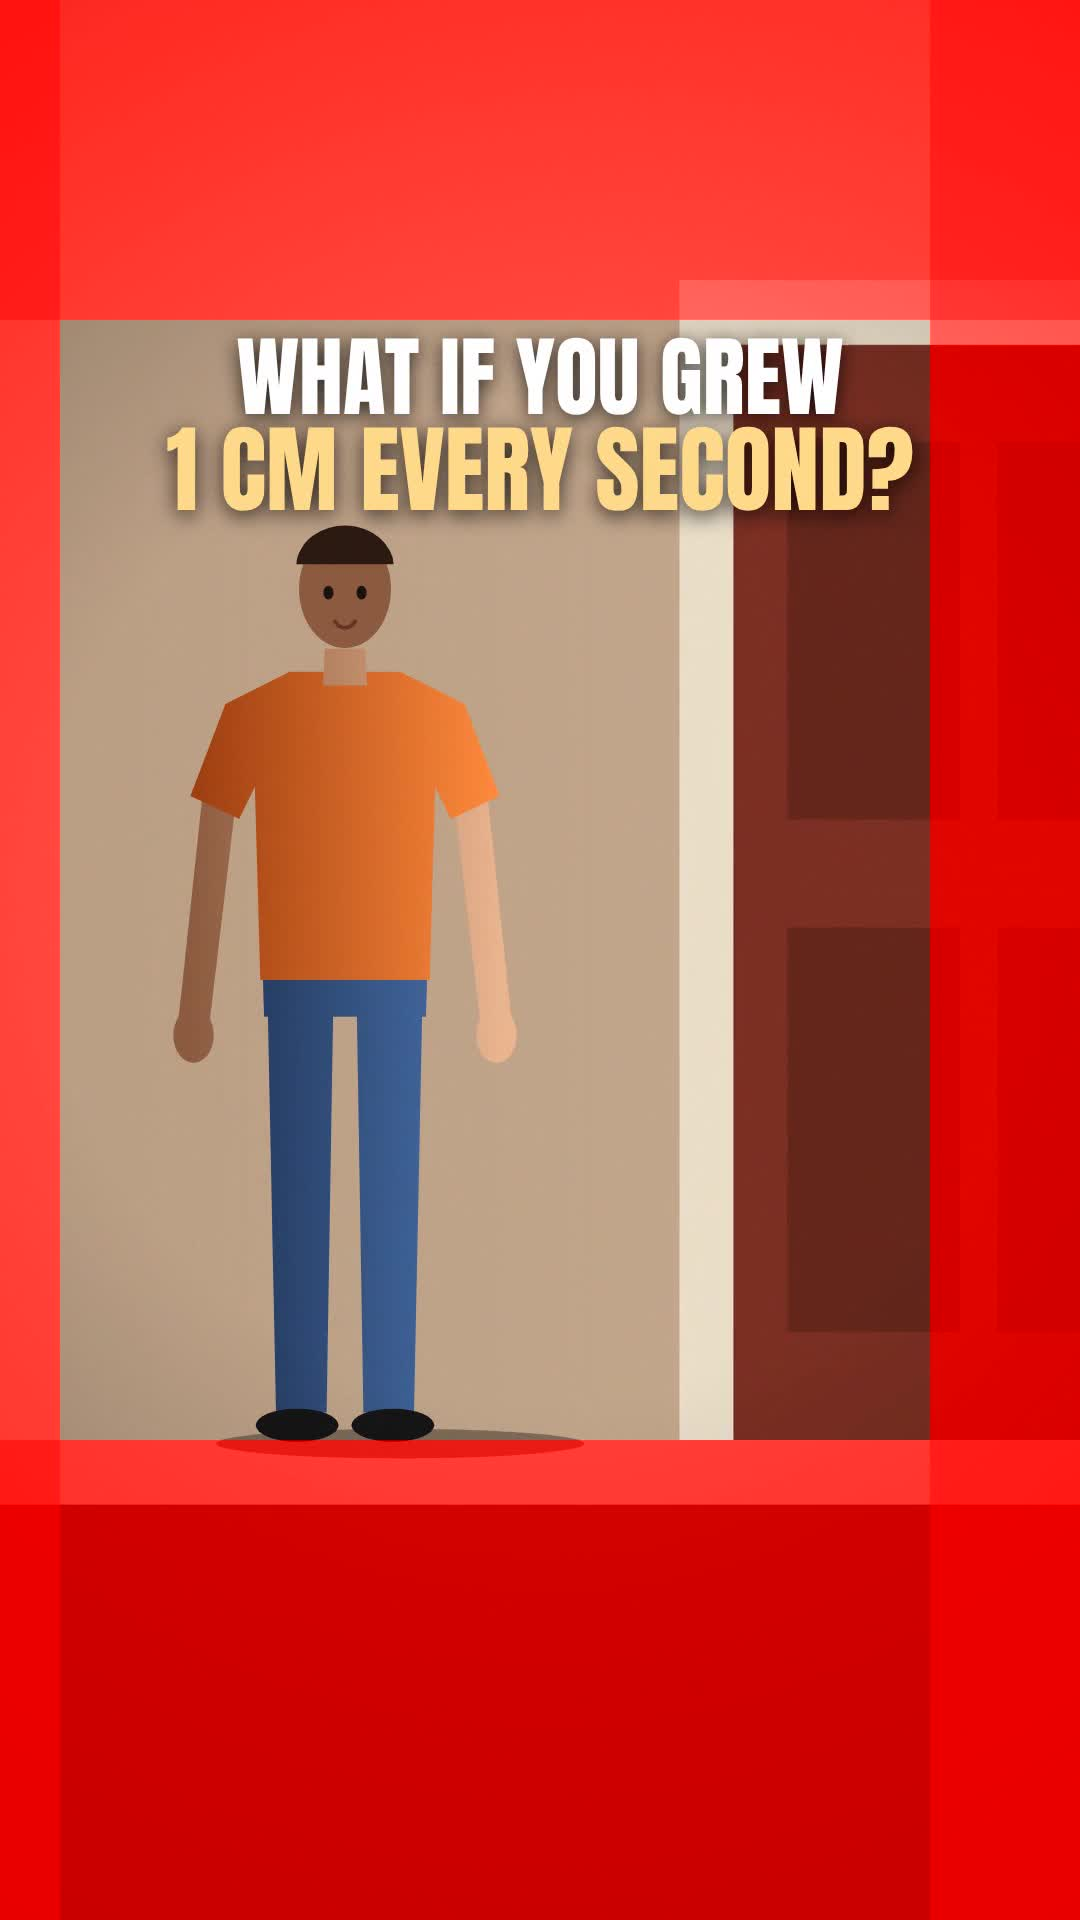
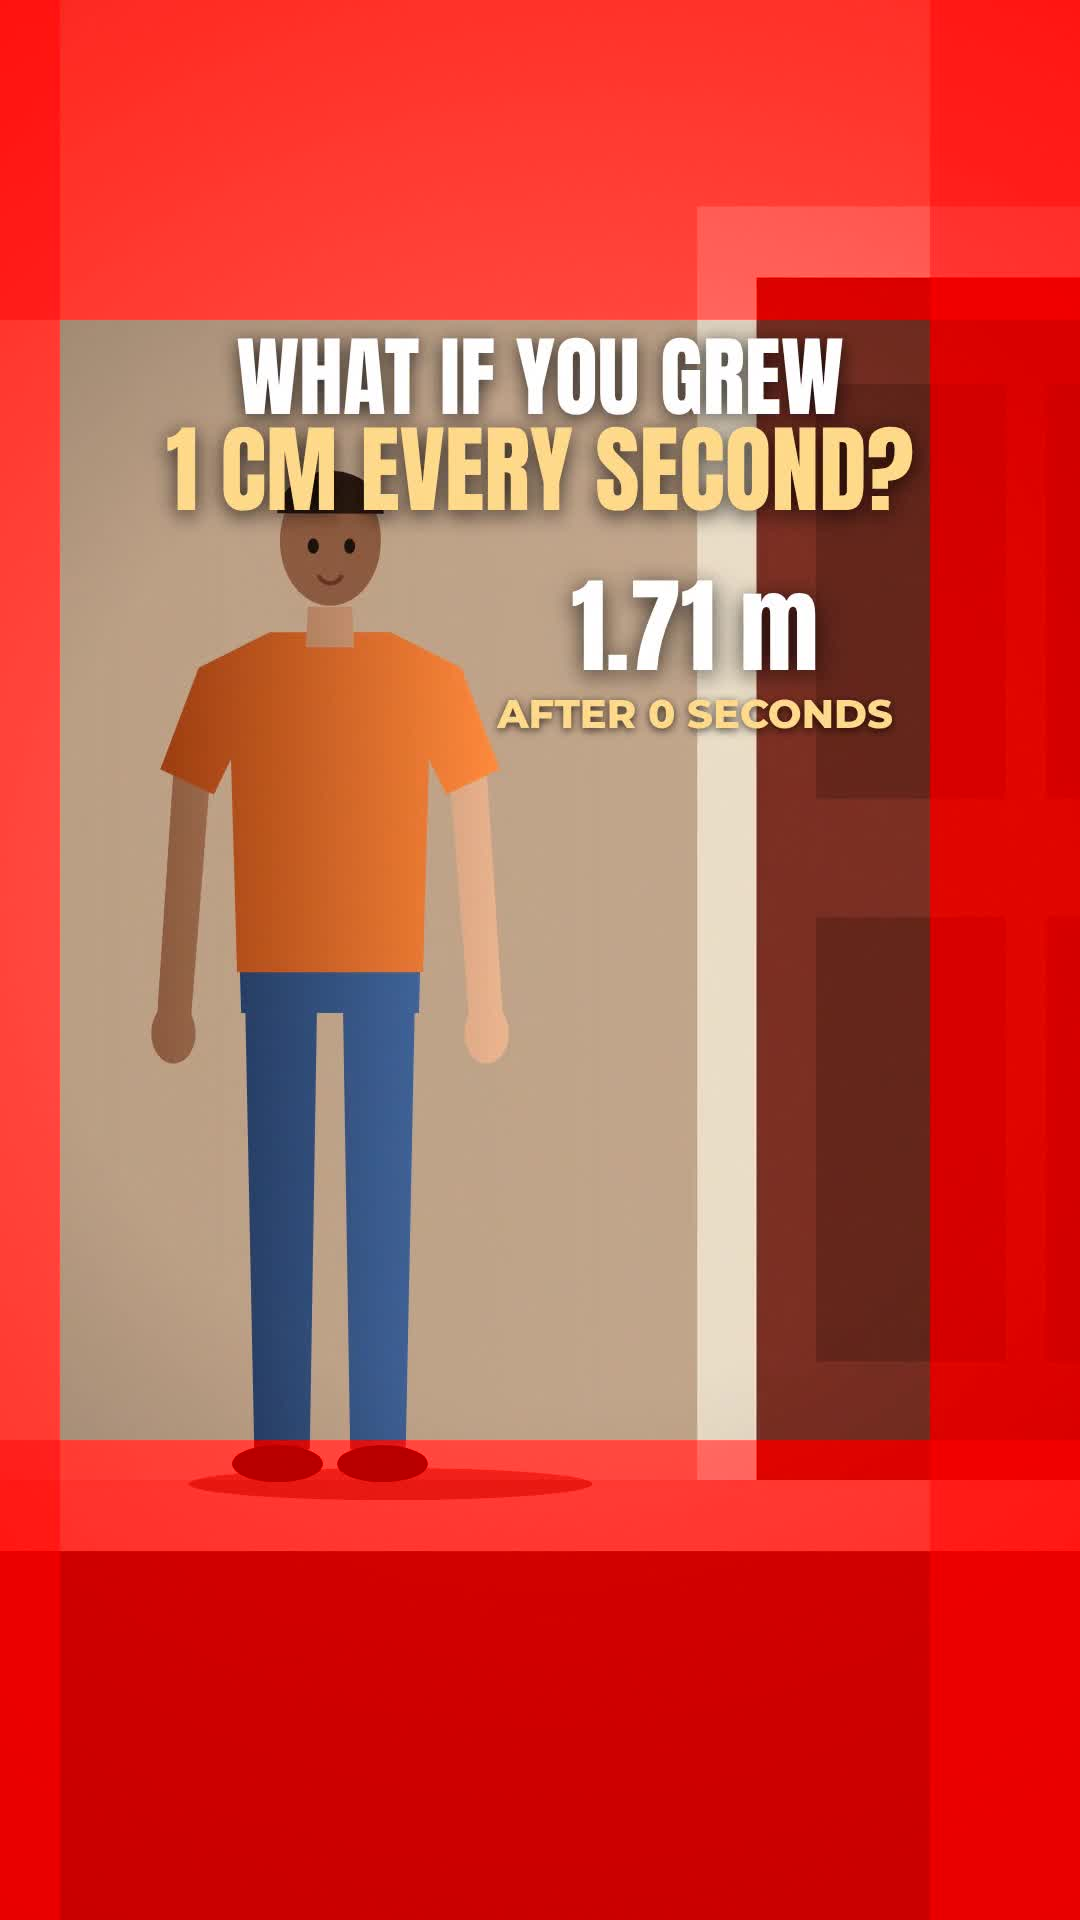
WIP grow-1cm v2 (reviewer round 1: voice/counter sync, tapered mountains, soft clouds, idle figure, counter from frame 0)

Changed region(s): [[0.0, 0.0938, 1.0, 0.8125], [0.4278, 0.4688, 0.4889, 0.5625], [0.7333, 0.5, 0.7639, 0.5312]]

diff --git a/tools/p_grow-1cm.html b/tools/p_grow-1cm.html
@@ -9,7 +9,7 @@
      for comparison (not their real places). Buildings, mountains and the person are drawn to scale with each other; the Earth photo is
      NASA AS17-148-22727 (public domain), drawn to the same scale. -->
 <script>
-const W=1080,H=1920,D=32.5,PX=345,CXT=690;
+const W=1080,H=1920,D=32.5,PX=330,CXT=695;
 const cl=(v,a=0,b=1)=>Math.max(a,Math.min(b,v)),ss=(a,b,v)=>{const t=cl((v-a)/(b-a));return t*t*(3-2*t)},lerp=(a,b,k)=>a+(b-a)*k;
 function rnd(seed){let s=seed>>>0;return()=>{s=(s*1664525+1013904223)>>>0;return s/4294967296}}
 const cv=document.getElementById('c'),x=cv.getContext('2d');
@@ -17,8 +17,8 @@ const EARTH=new Image();EARTH.src='g1-earth.jpg';
 Promise.all([document.fonts.load('80px Anton'),document.fonts.load('40px Mont'),new Promise(r=>{EARTH.onload=r})]).then(()=>{window.TEXREADY=true});
 const R=6378137; // equatorial radius, m (NSSDC)
 // ---------- growth clock: u = log10(T+1) through keyframes (monotone cubic) ----------
-const K=[[0,0],[2.8,1.0414],[5.0,1.7853],[7.8,3.5564],[11.5,4.9365],[13.3,5.15],[16.0,5.62],[17.4,5.9468],[19.4,6.35],[22.0,7.6042],[23.6,7.70],
- [25.2,8.6],[27.2,9.4022],[D,9.4022]];
+const K=[[0,0],[2.8,1.0414],[4.0,1.7853],[7.0,3.5564],[10.0,4.9365],[12.6,5.08],[16.0,5.55],[17.3,5.9468],[19.0,6.3],[20.3,7.6042],[23.4,7.70],
+ [26.4,9.4022],[D,9.4022]];
 const MS=(()=>{const n=K.length,d=[],m=[];for(let i=0;i<n-1;i++)d.push((K[i+1][1]-K[i][1])/(K[i+1][0]-K[i][0]));
  m[0]=d[0];m[n-1]=d[n-2];for(let i=1;i<n-1;i++)m[i]=(d[i-1]*d[i]<=0)?0:(d[i-1]+d[i])/2;
  for(let i=0;i<n-1;i++){if(d[i]==0){m[i]=m[i+1]=0;continue}const a=m[i]/d[i],b=m[i+1]/d[i],s=a*a+b*b;if(s>9){const tt=3/Math.sqrt(s);m[i]=tt*a*d[i];m[i+1]=tt*b*d[i]}}return m})();
@@ -26,7 +26,7 @@ function U(t){t=cl(t,0,D);let i=0;while(i<K.length-2&&t>K[i+1][0])i++;const [t0,
  const h00=2*s*s*s-3*s*s+1,h10=s*s*s-2*s*s+s,h01=-2*s*s*s+3*s*s,h11=s*s*s-s*s;return h00*z0+h10*h*MS[i]+h01*z1+h11*h*MS[i+1]}
 const TS=t=>Math.pow(10,U(t))-1, HT=T=>1.70+0.01*T;
 // ---------- framing: person height in px and feet y (moves up at the end so the Earth ball sits above the bottom zone) ----------
-function frame(t){const k=ss(23.6,27.2,t);return {hp:lerp(920,700,k),fy:lerp(1440,1062,k)}}
+function frame(t){const k=ss(23.4,26.4,t);return {hp:lerp(1010,700,k),fy:lerp(1480,1062,k)}}
 // ---------- precomputed scenery (metres; x = metres to the right of the feet, y up) ----------
 const r0=rnd(7);
 const STARS=[];for(let i=0;i<900;i++)STARS.push([r0()*W,r0()*H,Math.pow(r0(),4)*2.4+.3,r0()*6.28,r0()]);
@@ -37,7 +37,7 @@ const TREES=[];{const r=rnd(5);for(const x0 of [-2.6,-5.2,7.4,-12,13]){TREES.pus
 function ridge(seed,x0,x1,peakX,peakH,base,rough){const r=rnd(seed),P=[];const n=160;for(let i=0;i<=n;i++){const xx=lerp(x0,x1,i/n);
  const d=Math.abs(xx-peakX)/(x1-x0);let y=base+(peakH-base)*Math.pow(Math.max(0,1-d*2.3),1.35);P.push([xx,y])}
  for(let o=0;o<5;o++){const amp=rough*Math.pow(.55,o),f=4+o*7,ph=r()*6.28;for(const p of P){p[1]+=amp*Math.sin(p[0]/(x1-x0)*f*6.28+ph)*(1-Math.min(1,Math.abs(p[0]-peakX)/((x1-x0)*.06+1)*.0))}}
- for(const p of P)if(Math.abs(p[0]-peakX)<1)p[1]=peakH;return P}
+ for(const p of P){if(Math.abs(p[0]-peakX)<1)p[1]=peakH;const L=(x1-x0)*.18;p[1]*=ss(x0,x0+L,p[0])*ss(x1,x1-L,p[0])}return P}
 const EVR=ridge(11,800,13000,4300,8849,300,380); for(const p of EVR){if(Math.abs(p[0]-4300)>100)p[1]=Math.min(p[1],8849-Math.abs(p[0]-4300)*.42)}
 const EVR2=ridge(12,-14000,30000,9000,7000,200,500);
 const CLOUD=[];{const r=rnd(44);for(let i=0;i<150;i++){const xx=(r()-.35)*120000,y=1400+r()*1500,w=600+r()*2600;CLOUD.push({x:xx,y,w,h:w*(.28+r()*.2),a:.5+r()*.4})}}
@@ -52,7 +52,8 @@ function fmtT(T){const pl=(n,w)=>n+' '+w+(n==1?'':'S');
 // ---------- person (normalised: height 1, feet at 0, y up) ----------
 function person(g,X,Y,hp,t,space){
  const S=hp;const P=(a,b)=>[X+a*S,Y-b*S];g.save();
- const sway=Math.sin(t*1.3)*.004, look=ss(6,12,t)*.012;
+ const sway=Math.sin(t*1.3)*.006, look=ss(3,6,t)*.012+.006*Math.sin(t*.7), br=1+.006*Math.sin(t*2.2);
+ const bl=((t%3.1)<.12||(t%7.3)>7.15)?.15:1; g.translate(X,Y);g.scale(1,br);g.translate(-X,-Y);
  function poly(pts,fill){g.beginPath();pts.forEach((p,i)=>{const q=P(p[0],p[1]);i?g.lineTo(q[0],q[1]):g.moveTo(q[0],q[1])});g.closePath();g.fillStyle=fill;g.fill()}
  function lg(c0,c1){const gr=g.createLinearGradient(X-.17*S,0,X+.17*S,0);gr.addColorStop(0,c0);gr.addColorStop(1,c1);return gr}
  const jeans=lg('#1b2d4d','#4a74b0'),shirt=lg('#9c3d10','#ff8a3c'),skin=lg('#8c5a3e','#e9b48e'),shoe='#151515';
@@ -74,7 +75,7 @@ function person(g,X,Y,hp,t,space){
  g.fillStyle=skin;g.beginPath();g.ellipse(0,0,.05*S,.064*S,0,0,6.283);g.fill();
  g.fillStyle='#2a1a12';g.beginPath();g.ellipse(0,-.024*S,.053*S,.045*S,0,Math.PI*1.02,Math.PI*1.98);g.fill();
  g.beginPath();g.ellipse(0,-.03*S,.052*S,.03*S,0,Math.PI,0);g.fill();
- g.fillStyle='#1a120d';const ey=.004*S+look*S*.6;g.beginPath();g.ellipse(-.018*S,ey,.0055*S,.0075*S,0,0,6.283);g.fill();g.beginPath();g.ellipse(.018*S,ey,.0055*S,.0075*S,0,0,6.283);g.fill();
+ g.fillStyle='#1a120d';const ey=.004*S+look*S*.6,ex=look*S*.5;g.beginPath();g.ellipse(-.018*S+ex,ey,.0055*S,.0075*S*bl,0,0,6.283);g.fill();g.beginPath();g.ellipse(.018*S+ex,ey,.0055*S,.0075*S*bl,0,0,6.283);g.fill();
  g.strokeStyle='rgba(90,40,30,.8)';g.lineWidth=.004*S;g.beginPath();g.arc(0,.03*S,.012*S,.3,2.84);g.stroke();
  g.restore();
  // rim light from the right (sun)
@@ -124,7 +125,7 @@ function draw(t){
   x.fillStyle=sh;x.fillRect(0,0,W,H);
   x.restore();
   // ISS orbit ring (~400 km)
-  const io=ss(18.8,19.8,t)*(1-ss(23.6,24.6,t));
+  const io=ss(19.4,20.3,t)*(1-ss(23.4,24.2,t));
   if(io>0){x.save();x.globalAlpha=io*.85;x.strokeStyle='#ffd98a';x.lineWidth=3;x.setLineDash([14,12]);x.beginPath();x.arc(cx,cy,(R+400e3)*s,0,6.283);x.stroke();x.setLineDash([]);
    const an=-Math.PI/2+.32-(t-19)*.05;const ix=cx+Math.cos(an)*(R+400e3)*s,iy=cy+Math.sin(an)*(R+400e3)*s;const gl=x.createRadialGradient(ix,iy,0,ix,iy,26);gl.addColorStop(0,'rgba(255,255,255,1)');gl.addColorStop(.3,'rgba(255,230,170,.7)');gl.addColorStop(1,'rgba(255,200,120,0)');
    x.fillStyle=gl;x.beginPath();x.arc(ix,iy,26,0,6.283);x.fill();x.restore();
@@ -132,32 +133,32 @@ function draw(t){
  }
  const gY=m=>{ if(RS>1e6)return fy; const c=Math.min(1,m/R); return fy+RS-Math.sqrt(Math.max(0,RS*RS-(m*s)*(m*s)))}; // ground screen y under x=m
  // ----- distant mountain range (bluish), Everest -----
- if(s*8849>6&&s*8849<9000){const haze=alt;
+ if(s*8849>6&&s*8849<9000){const haze=alt;x.save();x.globalAlpha=ss(6,60,s*8849);
   for(const [Rg,col] of [[EVR2,`rgba(${lerp(120,40,haze)|0},${lerp(140,60,haze)|0},${lerp(170,95,haze)|0},.85)`],[EVR,null]]){
    x.beginPath();x.moveTo(X(Rg[0][0]),gY(Rg[0][0])+2);for(const p of Rg)x.lineTo(X(p[0]),gY(p[0])-p[1]*s);x.lineTo(X(Rg[Rg.length-1][0]),gY(Rg[Rg.length-1][0])+2);x.closePath();
    if(col){x.fillStyle=col;x.fill()}else{const mg=x.createLinearGradient(0,Y(8849),0,fy);mg.addColorStop(0,'#5b6474');mg.addColorStop(1,'#2c3328');x.fillStyle=mg;x.fill();
     x.save();x.clip();x.fillStyle='rgba(245,248,255,.95)';x.beginPath();x.moveTo(X(Rg[0][0]),Y(5600));for(const p of Rg)x.lineTo(X(p[0]),gY(p[0])-Math.max(p[1]*s,(5600+250*Math.sin(p[0]/700))*s));x.lineTo(X(Rg[Rg.length-1][0]),Y(5600));x.closePath();
     x.fillStyle='rgba(240,245,252,.95)';x.fillRect(0,0,W,Y(5400+0));x.restore();
     // light side
-    x.save();x.clip();const lg2=x.createLinearGradient(X(4300)-40,0,X(4300)+200,0);lg2.addColorStop(0,'rgba(0,0,20,.25)');lg2.addColorStop(.2,'rgba(255,240,220,.0)');x.fillStyle=lg2;x.fillRect(0,0,W,H);x.restore()}}}
+    x.save();x.clip();const lg2=x.createLinearGradient(X(4300)-40,0,X(4300)+200,0);lg2.addColorStop(0,'rgba(0,0,20,.25)');lg2.addColorStop(.2,'rgba(255,240,220,.0)');x.fillStyle=lg2;x.fillRect(0,0,W,H);x.restore()}}x.restore()}
  // ----- clouds -----
  if(s*1000>2){for(const c of CLOUD){const w=c.w*s;if(w<8)continue;const cx2=X(c.x),cy2=gY(c.x)-c.y*s;if(cx2<-w||cx2>W+w)continue;
    const a=c.a*(1-ss(.002,.0006,s))*.9;const cg=x.createRadialGradient(cx2,cy2,0,cx2,cy2,w);cg.addColorStop(0,`rgba(255,255,255,${a})`);cg.addColorStop(.6,`rgba(240,244,250,${a*.6})`);cg.addColorStop(1,'rgba(255,255,255,0)');
-   x.fillStyle=cg;x.beginPath();x.ellipse(cx2,cy2,w,c.h*s,0,0,6.283);x.fill()}}
+   x.save();x.translate(cx2,cy2);x.scale(1,c.h/c.w);x.translate(-cx2,-cy2);x.fillStyle=cg;x.beginPath();x.arc(cx2,cy2,w,0,6.283);x.fill();x.restore()}}
  // ----- city: towers + Burj Khalifa (828 m) -----
- if(s*828>4&&s*828<12000){
+ if(s*828>4&&s*828<12000){x.save();x.globalAlpha=ss(4,40,s*828);
   for(const tw of TOW){const ww=tw.w*s,hh=tw.h*s;if(hh<2)continue;const g2=x.createLinearGradient(X(tw.x),0,X(tw.x)+ww,0);g2.addColorStop(0,'#3a4658');g2.addColorStop(1,'#8796ad');x.fillStyle=g2;x.fillRect(X(tw.x),fy-hh,ww,hh)}
   // Burj profile: half-widths (m) at heights (m)
   const bx=450,BP=[[0,85],[160,70],[160,58],[320,50],[320,40],[460,34],[460,26],[585,20],[585,13],[640,10],[640,6],[828,0]];
   x.beginPath();x.moveTo(X(bx-BP[0][1]),Y(0));for(const p of BP)x.lineTo(X(bx-p[1]),Y(p[0]));for(let i=BP.length-1;i>=0;i--)x.lineTo(X(bx+BP[i][1]),Y(BP[i][0]));x.closePath();
   const bg=x.createLinearGradient(X(bx-85),0,X(bx+85),0);bg.addColorStop(0,'#55657c');bg.addColorStop(.55,'#c9d6e6');bg.addColorStop(1,'#7d8ca3');x.fillStyle=bg;x.fill();
-  window.__burj=[X(bx),Y(828)];}
+  window.__burj=[X(bx),Y(828)];x.restore()}
  // ----- near buildings -----
- if(s*40>3&&s*40<20000){for(const b of BLD){const ww=b.w*s,hh=b.h*s;if(X(b.x)>W||X(b.x)+ww<0)continue;
+ if(s*40>3&&s*40<20000){x.save();x.globalAlpha=ss(3,25,s*40);for(const b of BLD){const ww=b.w*s,hh=b.h*s;if(X(b.x)>W||X(b.x)+ww<0)continue;
    const g3=x.createLinearGradient(X(b.x),0,X(b.x)+ww,0);const c=b.c;g3.addColorStop(0,`rgb(${70+c*30|0},${74+c*24|0},${84+c*20|0})`);g3.addColorStop(1,`rgb(${150+c*40|0},${148+c*30|0},${150+c*24|0})`);
    x.fillStyle=g3;x.fillRect(X(b.x),fy-hh,ww,hh);
    if(s>2){const r=rnd(b.seed);x.fillStyle='rgba(255,226,160,.75)';const fl=Math.floor(b.h/3.2),cols=Math.floor(b.w/3);for(let i=0;i<fl;i++)for(let j=0;j<cols;j++){if(r()<.45)continue;
-     x.fillStyle=r()<.5?'rgba(255,226,160,.7)':'rgba(40,52,70,.85)';x.fillRect(X(b.x+1+j*3),Y(1.2+i*3.2+1.4),1.4*s,1.4*s)}}}}
+     x.fillStyle=r()<.5?'rgba(255,226,160,.7)':'rgba(40,52,70,.85)';x.fillRect(X(b.x+1+j*3),Y(1.2+i*3.2+1.4),1.4*s,1.4*s)}}}x.restore()}
  // ----- house with the door, trees -----
  if(s>4){const hx=-3.5,hw=10.5;
   for(const tr of TREES){const tx=X(tr.x);x.fillStyle='#4a3524';x.fillRect(tx-.18*s,Y(tr.h*.45),.36*s,tr.h*.45*s);const tg=x.createRadialGradient(tx+.6*s,Y(tr.h*.75),0,tx,Y(tr.h*.68),tr.w*.6*s);tg.addColorStop(0,'#7fa25a');tg.addColorStop(1,'#2f4a24');x.fillStyle=tg;x.beginPath();x.ellipse(tx,Y(tr.h*.68),tr.w*.55*s,tr.h*.36*s,0,0,6.283);x.fill()}
@@ -181,25 +182,25 @@ function draw(t){
  const hk=1-ss(2.5,3.0,t);
  if(hk>0){T('WHAT IF YOU GREW',540,414,88,'#fff',hk);T('1 CM EVERY SECOND?',540,510,96,'#ffd98a',hk)}
  // counter group (height big, time small) top right of the head
- const ca=ss(2.6,3.1,t)*(1-ss(29.6,30.0,t));
- const cxp=CXT,cyp=lerp(455,430,ss(23.6,27.2,t));
- if(ca>0){let pop=0;for(const m of [5.0,7.8,11.5,17.4,22.0,27.2])pop=Math.max(pop,Math.exp(-Math.pow((t-m)/.18,2)));
+ const ca=1;
+ const cxp=CXT,cyp=lerp(lerp(670,455,ss(2.5,3.1,t)),430,ss(23.4,26.4,t));
+ if(ca>0){let pop=0;for(const m of [4.0,7.0,10.0,17.3,20.3,26.4])pop=Math.max(pop,Math.exp(-Math.pow((t-m)/.18,2)));
   T(fmtH(h),cxp,cyp,Math.round(104*(1+.05*pop)),'#fff',ca);T('AFTER '+fmtT(Tn),cxp,cyp+58,40,'#ffd98a',ca,'Mont')}
  // one label at a time, next to its landmark
  const lab=(s1,a,b,X0,Y0,s2)=>{const al=ss(a,a+.35,t)*(1-ss(b-.3,b,t));if(al>0){const xx=cl(X0,250,760),yy=cl(Y0,680,1380);T(s1,xx,yy,42,'#fff',al,'Mont');if(s2)T(s2,xx,yy+50,42,'#ffd98a',al,'Mont')}};
- lab('DOOR',4.4,6.6,800,(window.__door||[0,900])[1]-20);
- lab('BURJ KHALIFA',10.6,13.2,CXT,cl((window.__burj||[0,800])[1]-30,760,1300),'828 m');
+ lab('DOOR',3.4,6.0,(window.__door||[800,0])[0],(window.__door||[0,900])[1]-20);
+ lab('BURJ KHALIFA',10.0,13.0,CXT,cl((window.__burj||[0,800])[1]-30,760,1300),'828 m');
  lab('EVEREST',17.0,19.4,CXT,650,'8,849 m');
- lab('SPACE STATION',21.4,24.2,CXT,cl((window.__iss||[0,900])[1]+70,700,1300),'ORBIT');
- lab('EARTH',27.0,29.8,PX,fy+R*s+20);
- if(t>27.4&&t<29.8){const al=ss(27.4,27.8,t)*(1-ss(29.5,29.8,t));T('ALMOST',CXT,580,46,'#fff',al,'Mont');T('2 EARTHS TALL',CXT,632,46,'#fff',al,'Mont')}
+ lab('SPACE STATION',20.3,23.8,CXT,cl((window.__iss||[0,900])[1]+70,700,1300),'ORBIT ~400 km');
+ lab('EARTH',26.4,29.8,PX,fy+R*s+20);
+ if(t>26.8&&t<29.8){const al=ss(26.8,27.2,t)*(1-ss(29.5,29.8,t));T('ALMOST',CXT,580,46,'#fff',al,'Mont');T('2 EARTHS TALL',CXT,632,46,'#fff',al,'Mont')}
  // guess card
  const ga=ss(13.2,13.6,t)*(1-ss(16.8,17.2,t));
- if(ga>0){T('WHEN DO YOU',CXT,640,60,'#fff',ga);T('PASS EVEREST?',CXT,710,68,'#ffd98a',ga);T('GUESS NOW',CXT,772,44,'#fff',ga,'Mont')}
+ if(ga>0){const sc=x.createRadialGradient(CXT,700,20,CXT,700,330);sc.addColorStop(0,`rgba(10,20,40,${.55*ga})`);sc.addColorStop(1,'rgba(10,20,40,0)');x.fillStyle=sc;x.fillRect(CXT-340,420,680,560);T('WHEN DO YOU',CXT,640,60,'#fff',ga);T('PASS EVEREST?',CXT,710,68,'#ffd98a',ga);T('GUESS NOW',CXT,772,44,'#fff',ga,'Mont')}
  
  // payoff + loop
- const pa=ss(29.8,30.1,t)*(1-ss(31.0,31.2,t));if(pa>0){T('DID YOU',CXT,420,84,'#fff',pa);T('GUESS RIGHT?',CXT,510,88,'#ffd98a',pa)}
- const fa=ss(31.1,31.35,t)*(1-ss(32.25,32.45,t));if(fa>0)T('Follow → a new one every day',540,1395,40,'#fff',fa*.95,'Mont');
+ const pa=ss(29.8,30.1,t)*(1-ss(31.0,31.2,t));if(pa>0){T('DID YOU',CXT,620,84,'#fff',pa);T('GUESS RIGHT?',CXT,710,88,'#ffd98a',pa)}
+ const fa=ss(31.1,31.35,t)*(1-ss(32.25,32.45,t));if(fa>0){T('Follow →',700,1250,40,'#fff',fa*.95,'Mont');T('a new one every day',700,1298,40,'#fff',fa*.95,'Mont')}
 }
 window.draw=draw;
 </script>

diff --git a/tools/grow-1cm.sound.py b/tools/grow-1cm.sound.py
@@ -1,6 +1,6 @@
 # Original bed for "What If You Grew 1 cm Every Second?" (grow-1cm, 32.5 s). Warm pad that climbs (C -> F -> Am -> G -> F -> C) as the
 # person grows, a slow rising filter sweep, sub swell when we reach space, soft low whooshes and felt thumps on each milestone
-# (1 min 5.0 s, 1 h 7.8 s, 1 day 11.5 s, Everest 17.4 s, ISS 22.0 s, 80 years 27.2 s). Nothing bright: sources < ~1.2 kHz before the low-pass.
+# (1 min 4.0 s, 1 h 7.0 s, 1 day 10.0 s, Everest 17.3 s, ISS 20.3 s, 80 years 26.4 s). Nothing bright: sources < ~1.2 kHz before the low-pass.
 # usage: python3 grow-1cm.sound.py bed.wav
 import numpy as np, wave, sys
 SR = 48000; D = 32.5; N = int(SR * D); t = np.arange(N) / SR
@@ -35,20 +35,20 @@ for i, tb in enumerate(np.arange(3.0, 29.6, beat)):
     s = np.sin(2 * np.pi * f * tt) * np.exp(-tt / .12) * (.06 + .03 * (tb / 30))
     add(lp(s, 500), 0, int(tb * SR))
 # 3. sub swell into space
-da = env([(0, .25), (17.0, .25), (22.0, .6), (27.2, .75), (29.6, .4), (D, .25)])
+da = env([(0, .25), (17.0, .25), (20.3, .6), (26.4, .75), (29.6, .4), (D, .25)])
 for m, a in [(1, .22), (2, .14)]:
     add(da * a * np.sin(2 * np.pi * 32.70 * m * t + m), 0)
 # 4. soft low whooshes into milestones (band-limited noise 70-900 Hz)
 def whoosh(tc, dur, amp, pan):
     n = int(dur * SR); tt = np.arange(n) / SR; s = bp(rng.standard_normal(n), 70, 900)
     e = (np.clip(tt / dur, 0, 1) ** 2) * np.exp(-np.clip(tt - dur * .85, 0, None) / .08); add(s * e * amp, pan, int(max(0, tc - dur * .85) * SR))
-for tc, p in [(5.0, -.3), (7.8, .3), (11.5, -.2), (17.4, .2), (22.0, -.3), (27.2, .3)]:
+for tc, p in [(4.0, -.3), (7.0, .3), (10.0, -.2), (17.3, .2), (20.3, -.3), (26.4, .3)]:
     whoosh(tc, 1.4, .06, p)
 # 5. felt thumps (sine drop 90->40 Hz) on milestones
 def thump(t0, amp):
     n = int(.8 * SR); tt = np.arange(n) / SR; f = 40 + 50 * np.exp(-tt / .06)
     s = np.sin(2 * np.pi * np.cumsum(f) / SR) * np.exp(-tt / .25); add(lp(s, 400) * amp, 0, int(t0 * SR))
-for t0 in (5.0, 7.8, 11.5, 17.4, 22.0, 27.2): thump(t0, .3)
+for t0 in (4.0, 7.0, 10.0, 17.3, 20.3, 26.4): thump(t0, .3)
 m = np.stack([L, R], 1); m /= np.max(np.abs(m)) / .5
 with wave.open(sys.argv[1], 'w') as w:
     w.setnchannels(2); w.setsampwidth(2); w.setframerate(SR); w.writeframes((m * 32767).astype(np.int16).tobytes())

diff --git a/tools/grow-1cm.vo.py b/tools/grow-1cm.vo.py
@@ -10,7 +10,7 @@ L = {
  'l3': "After one hour, thirty-eight meters.",
  'l4': "After one day, you're taller than the tallest building on Earth.",
  'l5': "So when do you pass Mount Everest? Guess now.",
- 'l6': "Just ten days.",
+ 'l6': "Just over ten days.",
  'l7': "After about fifteen months, your head reaches the space station's orbit.",
  'l8': "And after eighty years, you'd be almost twice as tall as Earth is wide.",
  'l9': "Did you guess right?",

diff --git a/wip/grow-1cm/meta.md b/wip/grow-1cm/meta.md
@@ -3,7 +3,7 @@ title: What If You Grew 1 cm Every Second? 📏
 outlier: "What if you grew 1 cm every second?" (What If channel, ~3.3M) — topic only, nothing copied.
 style: C (scale shock, live height counter) · family Q · 1M+ list #7 · slot 17 Nov 2026 17:00 Europe/London
 tags: grow 1 cm every second, what if, scale comparison, mount everest, burj khalifa, space station, earth, space
-alt: Original animation with a real NASA photo of Earth. A young man in an orange T-shirt and jeans stands next to a front door under the question What if you grew 1 cm every second? He keeps the same size on screen while the world shrinks around him, and a counter shows his height and the time. After 1 minute he is taller than the door; after 1 hour, 38 m, above the houses and apartment blocks; after 1 day, 865 m, next to the Burj Khalifa, 828 m. The question appears: when do you pass Everest? Guess now. Through the clouds he passes Everest, 8,849 m, after 10 days. The sky turns black: after about 15 months his head reaches the space station orbit, drawn as a dashed ring. After 80 years he is 25,246 km tall, standing on top of a small Earth, almost 2 Earths tall. Did you guess right? A follow line, then it loops.
+alt: Original animation with a real NASA photo of Earth. A young man in an orange T-shirt and jeans stands next to a front door under the question What if you grew 1 cm every second? He keeps the same size on screen while the world shrinks around him (until the very end), and a counter shows his height and the time. After 1 minute he is taller than the door; after 1 hour, 38 m, above the houses and apartment blocks; after 1 day, 865 m, next to the Burj Khalifa, 828 m. The question appears: when do you pass Everest? Guess now. Through the clouds he passes Everest, 8,849 m, after just over 10 days. The sky turns black: after about 15 months his head reaches the space station orbit, drawn as a dashed ring, about 400 km. After 80 years he is 25,246 km tall, standing on top of a small Earth, almost 2 Earths tall. Did you guess right? A follow line, then it loops.
 
 ## Description
 Guess before the end: how many days until you're taller than Mount Everest? 👇
